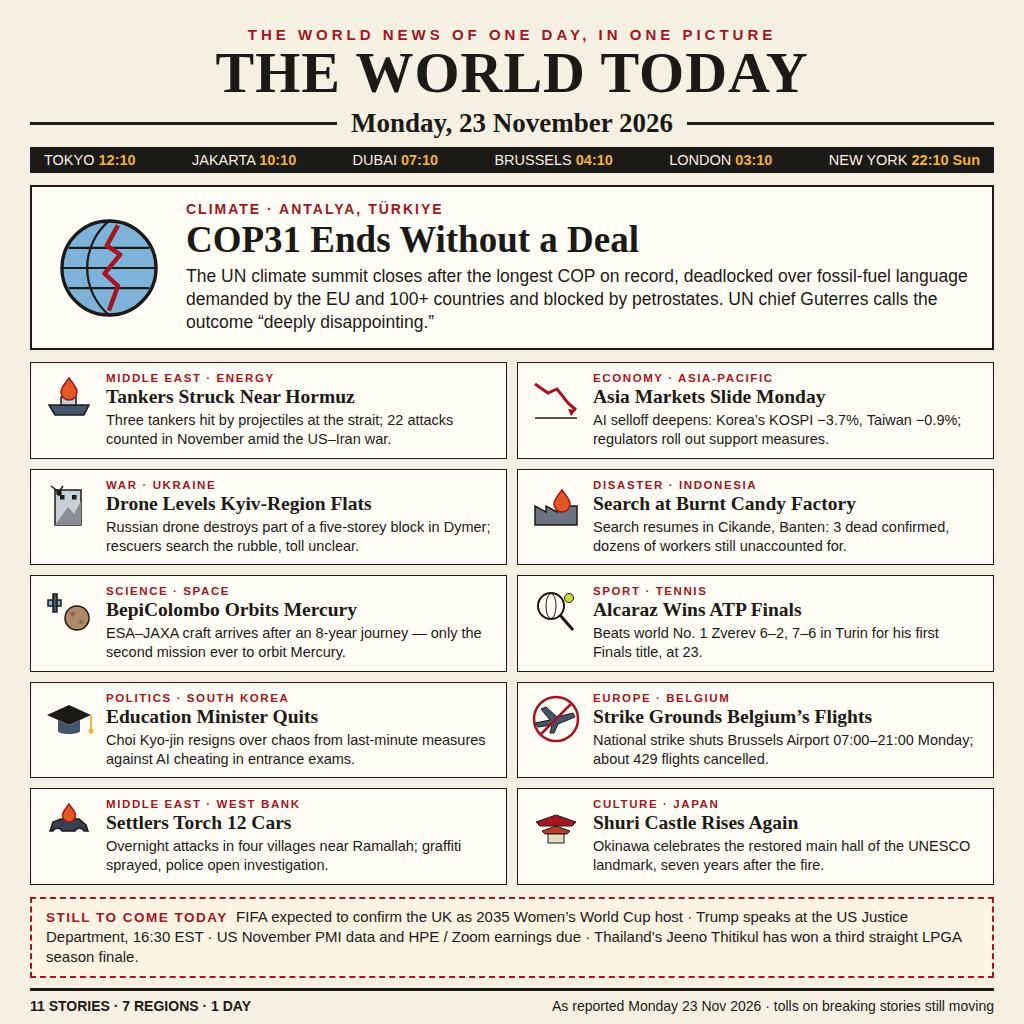
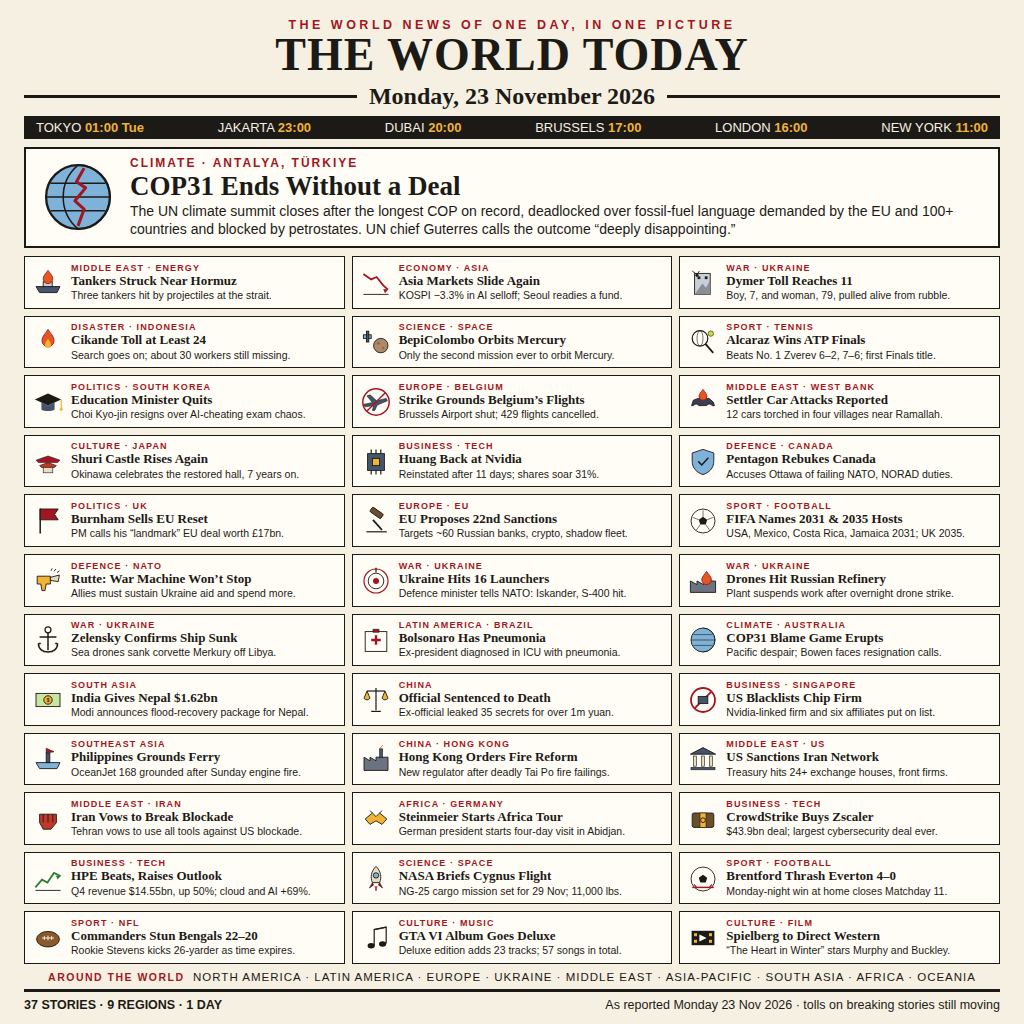
Final edition: 37 stories, 9 regions — full Monday 23 Nov 2026 front page

diff --git a/main.ts b/main.ts
@@ -1,8 +1,8 @@
 // Entry for make.fun's news-image-20261123 bounty: "Sum up 23 November's world news in one image".
 //
 // The picture itself is entry.png, beside this file: a one-page newspaper front page for Monday
-// 23 November 2026 — a lead story (COP31 ends without a deal), ten more stories from seven regions,
-// a world-clock strip and a "still to come today" line, drawn as an HTML page and rendered to a
+// 23 November 2026 — a lead story (COP31 ends without a deal), 36 more stories from nine regions,
+// a world-clock strip and a regions strip, drawn as an HTML page and rendered to a
 // 1024x1024 PNG. This program's whole job is to put those bytes where the grader reads them,
 // /output/entry.png, unchanged on every run. Outside the grader's container MAKEFUN_OUTPUT_DIR
 // stands in for /output:

diff --git a/README.md b/README.md
@@ -8,25 +8,39 @@ My entry to the make.fun bounty [news-image-20261123](https://make.fun/bounty/ne
 one image that sums up the world news of Monday 23 November 2026.
 
 The image is a one-page newspaper front page, drawn as an HTML page (hand-written markup and inline
-SVG icons) and rendered to a 1024×1024 PNG of about 230 KB:
+SVG icons) and rendered to a 1024×1024 PNG of about 270 KB:
 
 - **Masthead and date**, named in full: *Monday, 23 November 2026*, with a world-clock strip
-  (Tokyo, Jakarta, Dubai, Brussels, London, New York) showing the day arriving across time zones.
+  (Tokyo, Jakarta, Dubai, Brussels, London, New York) showing the day closing across time zones.
 - **Lead story**: COP31 ends without a deal — the climate summit in Antalya closes deadlocked over
   fossil-fuel language.
-- **Ten more stories across seven regions**, each with its own small illustrated card: tankers struck
-  near Hormuz; Asia markets slide on the AI selloff; a drone levels a Kyiv-region apartment block;
-  the search at the burnt Cikande candy factory in Banten; BepiColombo enters orbit around Mercury;
-  Alcaraz wins the ATP Finals; South Korea's education minister resigns; Belgium's national strike
-  grounds its flights; settlers torch cars in the West Bank; Shuri Castle's main hall rises again.
-- **A "still to come today" strip** for the day's scheduled news (the expected FIFA announcement on
-  the 2035 Women's World Cup host, Trump's Justice Department remarks, US PMI data), kept separate
-  from what has already been reported, and a footer noting where tolls on breaking stories were
-  still moving.
+- **36 more stories across nine regions**, each with its own small illustrated card:
+  tankers struck near Hormuz; Asia markets slide and Seoul readies a rescue fund; the Dymer toll
+  reaches 11; the Cikande toll reaches at least 24; BepiColombo orbits Mercury; Alcaraz wins the
+  ATP Finals; South Korea's education minister resigns; Belgium's national strike grounds its
+  flights; settler car attacks reported in the West Bank; Shuri Castle rises again; Huang returns
+  as Nvidia CEO; the Pentagon rebukes Canada; Burnham sells his EU reset; the EU proposes its
+  22nd sanctions package; FIFA names the 2031 and 2035 Women's World Cup hosts; NATO's Rutte warns
+  Russia's war machine won't stop; Ukraine hits 16 missile launchers; drones hit a Russian
+  refinery; Zelensky confirms a Russian warship sunk off Libya; Bolsonaro is diagnosed with
+  pneumonia; the COP31 blame game erupts in Australia; India gives Nepal a $1.62bn package; China
+  sentences an official to death for spying; the US blacklists a Singapore chip firm; the
+  Philippines grounds a fire-hit ferry; Hong Kong orders fire reform; the US sanctions Iran's
+  shadow banking network; Iran vows to break the blockade; Steinmeier starts an Africa tour;
+  CrowdStrike buys Zscaler for $43.9bn; HPE beats earnings and raises its outlook; NASA briefs the
+  Cygnus cargo flight; Brentford thrash Everton 4–0; the Commanders stun the Bengals 22–20; the
+  GTA VI album goes deluxe; Spielberg is to direct his first Western.
+- **A regions strip** naming all nine regions covered (North America, Latin America, Europe,
+  Ukraine, Middle East, Asia-Pacific, South Asia, Africa, Oceania) and a footer noting where tolls
+  on breaking stories were still moving.
+
+Every story was checked against its source article's own text to confirm it happened, or was first
+reported, on Monday 23 November 2026; where a toll was still moving it is phrased as a toll update
+or with "at least".
 
 ## Files
 
 - `main.ts` — copies `entry.png` to `/output/entry.png` (or `$MAKEFUN_OUTPUT_DIR`), unchanged on
   every run.
-- `entry.png` — the picture: 1024×1024, about 230 KB, well inside the gate's 1 MiB limit.
+- `entry.png` — the picture: 1024×1024, about 270 KB, well inside the gate's 1 MiB limit.
 - `LICENSE` — MIT.
